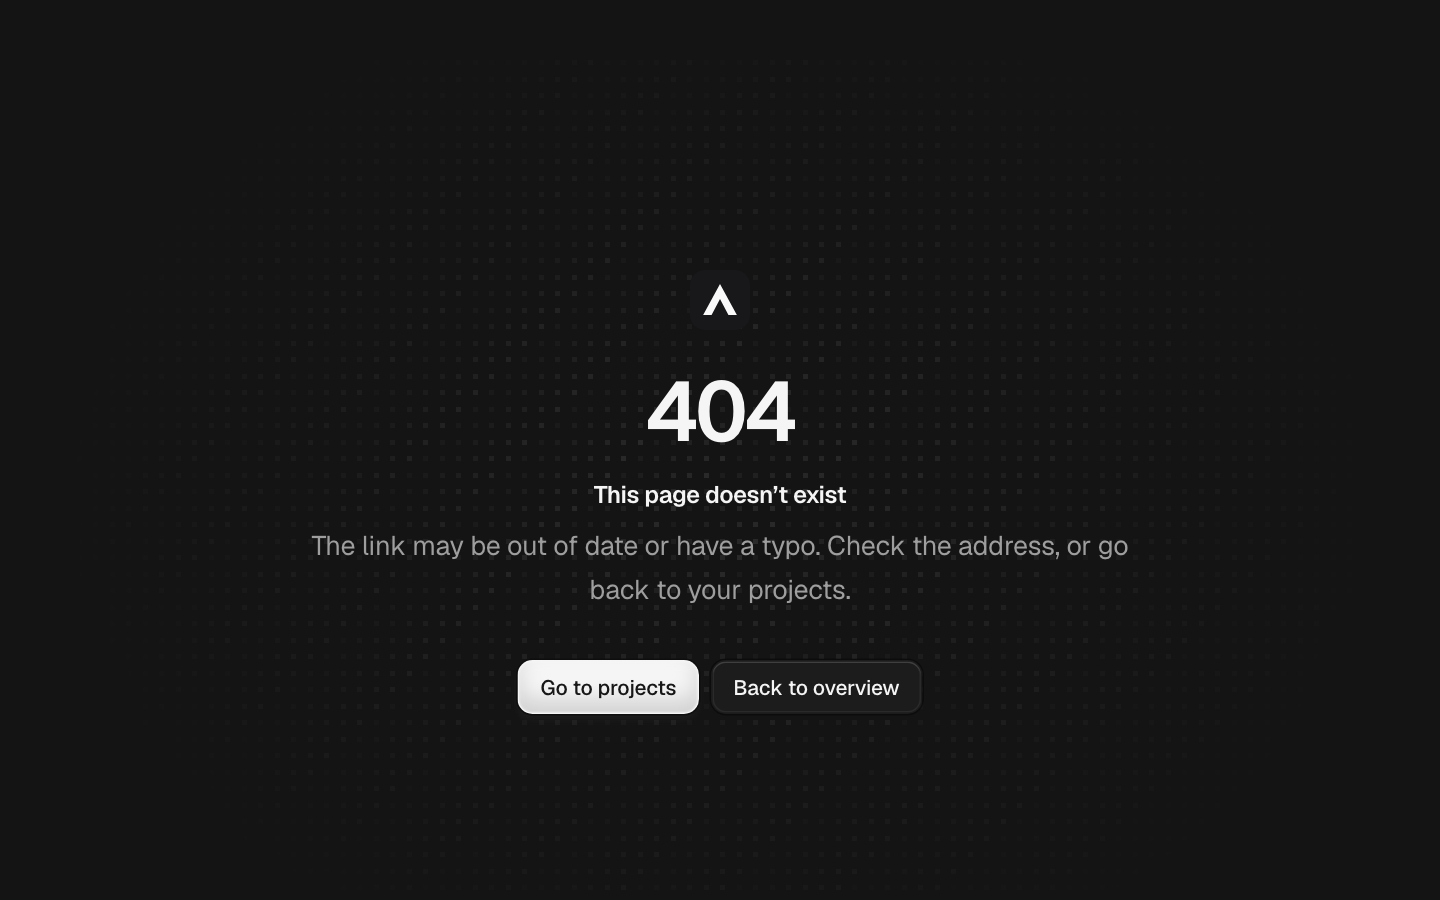
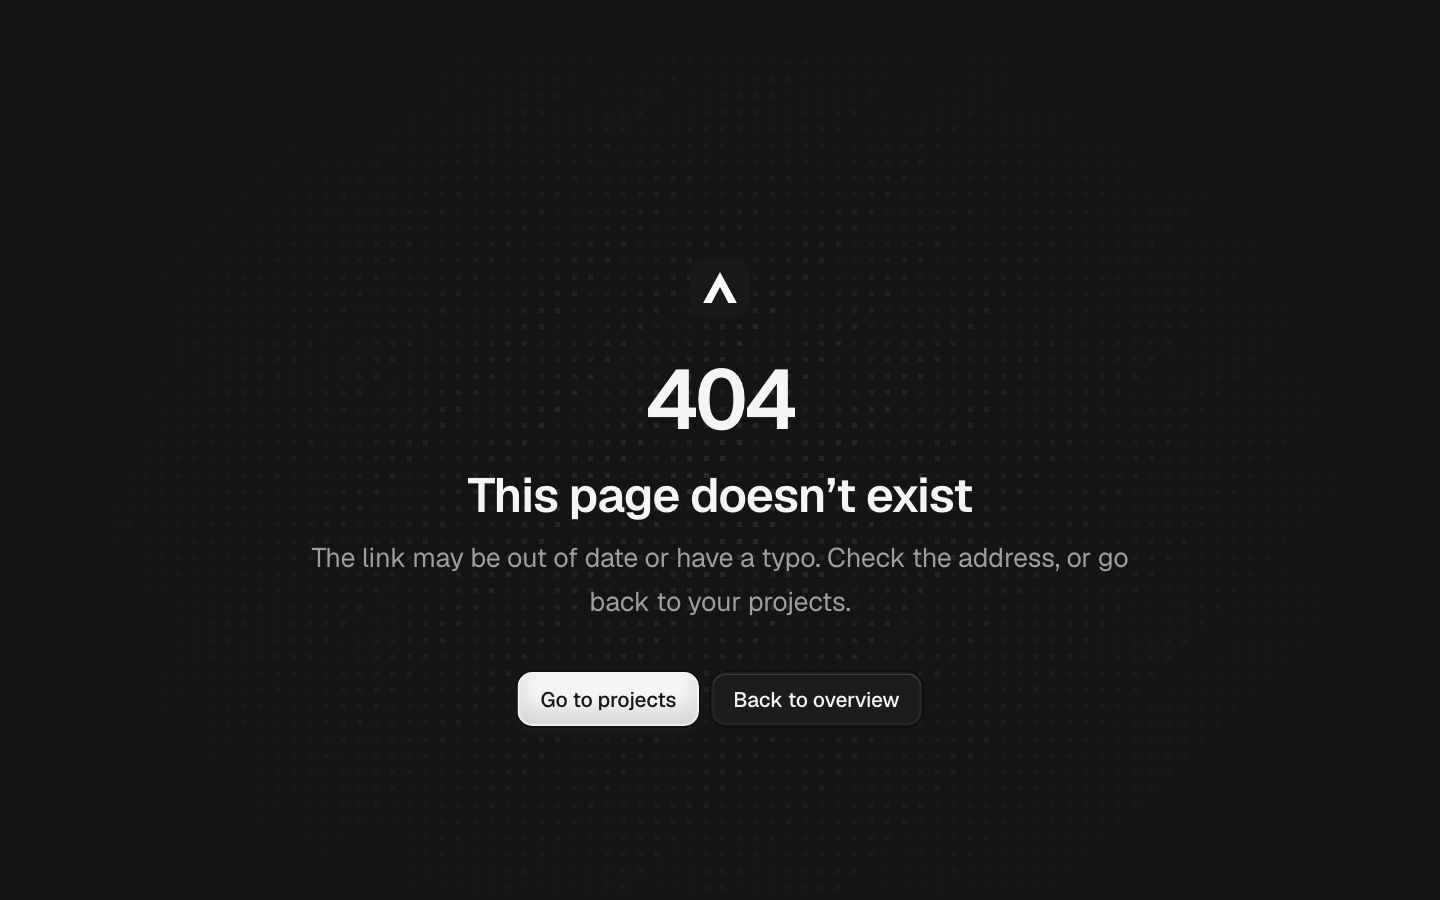
fix(error-page): raise the title, show the current step in one line and report a failed email

diff --git a/registry/kosmos/blocks/maintenance-page/maintenance-page.tsx b/registry/kosmos/blocks/maintenance-page/maintenance-page.tsx
@@ -4,19 +4,19 @@ import { CircleCheck } from 'lucide-react';
 import * as React from 'react';
 import { cn } from '@/registry/kosmos/lib/cn';
 import { Button } from '@/registry/kosmos/ui/button';
-import { Field, FieldLabel } from '@/registry/kosmos/ui/field';
+import { Field, FieldError, FieldLabel } from '@/registry/kosmos/ui/field';
 import { FlickeringGrid } from '@/registry/kosmos/ui/flickering-grid';
 import { Input } from '@/registry/kosmos/ui/input';
 import { StatusDot, type Status } from '@/registry/kosmos/ui/status';
 
-type MaintenanceStep = { id: string; label: string; status: Status; note?: string };
+type MaintenanceStep = { id: string; label: string; status: Status };
 
 // Sample data: replace it with your own upgrade, its steps and links.
 const sampleSteps: MaintenanceStep[] = [
-  { id: 'pipeline', label: 'Event pipeline', status: 'done', note: 'Moved' },
-  { id: 'queries', label: 'Query engine', status: 'running', note: 'In progress' },
-  { id: 'dashboards', label: 'Dashboards', status: 'waiting', note: 'Up next' },
-  { id: 'api', label: 'API and webhooks', status: 'pending', note: 'Queued' },
+  { id: 'pipeline', label: 'Moving the event pipeline', status: 'done' },
+  { id: 'queries', label: 'Moving the query engine', status: 'running' },
+  { id: 'dashboards', label: 'Bringing dashboards back', status: 'pending' },
+  { id: 'api', label: 'Bringing the API and webhooks back', status: 'pending' },
 ];
 const sampleSecondsLeft = 1 * 3600 + 42 * 60 + 18;
 const sampleActions = (
@@ -34,7 +34,7 @@ type MaintenancePageProps = Omit<React.ComponentProps<'section'>, 'title'> & {
   description?: React.ReactNode;
   /** When the app is back, for the countdown. Left out, the sample counts down from 1:42:18. `null` hides it. */
   backAt?: Date | string | number | null;
-  /** What the upgrade does, each with its state. An empty list leaves it out. */
+  /** What the upgrade does, each with its state. The page shows the first step not yet done. An empty list leaves it out. */
   steps?: MaintenanceStep[];
   /** Shows a field for an email to tell when the app is back, and gets the address. Left out, there is no field. */
   onNotify?: (email: string) => void | Promise<void>;
@@ -76,7 +76,7 @@ function Countdown({ secondsLeft }: { secondsLeft: number | null }) {
       {['Hours', 'Minutes', 'Seconds'].map((label, index) => (
         <React.Fragment key={label}>
           {index > 0 ? (
-            <span aria-hidden className="text-display font-semibold text-muted-foreground">
+            <span aria-hidden className="text-display font-semibold text-muted-foreground @2xl:text-hero">
               :
             </span>
           ) : null}
@@ -92,10 +92,27 @@ function Countdown({ secondsLeft }: { secondsLeft: number | null }) {
   );
 }
 
+function CurrentStep({ steps }: { steps: MaintenanceStep[] }) {
+  const index = steps.findIndex((step) => step.status !== 'done');
+  const step = steps[index];
+  return (
+    <p className="mt-6 flex max-w-full justify-center text-body text-muted-foreground">
+      {step ? (
+        <StatusDot status={step.status} title={step.label}>
+          Step {index + 1} of {steps.length} · {step.label}
+        </StatusDot>
+      ) : (
+        <StatusDot status="done">All {steps.length} steps done</StatusDot>
+      )}
+    </p>
+  );
+}
+
 function NotifyForm({ onNotify }: { onNotify: NonNullable<MaintenancePageProps['onNotify']> }) {
   const [email, setEmail] = React.useState('');
   const [sentTo, setSentTo] = React.useState<string | null>(null);
   const [pending, setPending] = React.useState(false);
+  const [failed, setFailed] = React.useState(false);
 
   if (sentTo) {
     return (
@@ -113,22 +130,39 @@ function NotifyForm({ onNotify }: { onNotify: NonNullable<MaintenancePageProps['
       onSubmit={async (event) => {
         event.preventDefault();
         setPending(true);
+        setFailed(false);
         try {
           await onNotify(email);
           setSentTo(email);
+        } catch {
+          setFailed(true);
         } finally {
           setPending(false);
         }
       }}
-      className="flex w-full flex-col gap-2 text-start @md:flex-row @md:items-end"
+      className="w-full text-start"
     >
-      <Field className="min-w-0 flex-1">
+      <Field invalid={failed}>
         <FieldLabel>Email me when it’s back</FieldLabel>
-        <Input type="email" required autoComplete="email" placeholder="you@acme.example" value={email} onValueChange={setEmail} className="h-7.5" />
+        <div className="flex flex-col gap-2 @md:flex-row">
+          <Input
+            type="email"
+            required
+            autoComplete="email"
+            placeholder="you@acme.example"
+            value={email}
+            onValueChange={(value) => {
+              setEmail(value);
+              setFailed(false);
+            }}
+            className="h-7.5 min-w-0 flex-1"
+          />
+          <Button type="submit" variant="primary" disabled={pending}>
+            Notify me
+          </Button>
+        </div>
+        <FieldError>We couldn’t save your email. Try again in a moment.</FieldError>
       </Field>
-      <Button type="submit" variant="primary" disabled={pending}>
-        Notify me
-      </Button>
     </form>
   );
 }
@@ -156,7 +190,7 @@ function MaintenancePage({
       {grid ? <FlickeringGrid spotlight className="mask-[radial-gradient(ellipse_50%_60%_at_50%_50%,black,transparent)]" /> : null}
       <div className="@container flex flex-1 flex-col items-center justify-center px-4 py-16 text-center">
         {media ? <div className="mb-6 flex shrink-0 [&_svg:not([class*='size-'])]:size-10">{media}</div> : null}
-        <h1 className="max-w-[24em] text-title text-balance wrap-break-word">{title}</h1>
+        <h1 className="max-w-[20em] text-heading font-semibold text-balance wrap-break-word @2xl:text-display">{title}</h1>
         {description ? (
           <p className="mt-2 max-w-[32em] text-body text-pretty wrap-break-word text-muted-foreground @2xl:text-lead">{description}</p>
         ) : null}
@@ -165,18 +199,7 @@ function MaintenancePage({
             <Countdown secondsLeft={secondsLeft} />
           </div>
         )}
-        {steps.length ? (
-          <ul className="mt-8 w-full max-w-md divide-y divide-border overflow-hidden rounded-2xl border border-transparent bg-card text-start shadow-card">
-            {steps.map((step) => (
-              <li key={step.id} className="flex items-center justify-between gap-3 px-4 py-2.5 text-body">
-                <StatusDot status={step.status} title={step.label}>
-                  {step.label}
-                </StatusDot>
-                {step.note ? <span className="shrink-0 text-caption text-muted-foreground">{step.note}</span> : null}
-              </li>
-            ))}
-          </ul>
-        ) : null}
+        {steps.length ? <CurrentStep steps={steps} /> : null}
         {onNotify || actions ? (
           <div className="mt-8 flex w-full max-w-md flex-col items-center gap-4">
             {onNotify ? <NotifyForm onNotify={onNotify} /> : null}

diff --git a/registry/kosmos/blocks/error-page/error-page.tsx b/registry/kosmos/blocks/error-page/error-page.tsx
@@ -55,7 +55,7 @@ function ErrorPage({
       <div className="@container flex flex-1 flex-col items-center justify-center px-4 py-16 text-center">
         {media ? <div className="mb-6 flex shrink-0 [&_svg:not([class*='size-'])]:size-10">{media}</div> : null}
         <p className="text-display font-semibold tabular-nums @2xl:text-hero">{code}</p>
-        <h1 className="mt-3 max-w-[24em] text-title text-balance wrap-break-word">{title}</h1>
+        <h1 className="mt-3 max-w-[20em] text-heading font-semibold text-balance wrap-break-word @2xl:text-display">{title}</h1>
         {description ? (
           <p className="mt-2 max-w-[32em] text-body text-pretty wrap-break-word text-muted-foreground @2xl:text-lead">{description}</p>
         ) : null}

diff --git a/registry/kosmos/examples/maintenance-page.tsx b/registry/kosmos/examples/maintenance-page.tsx
@@ -26,7 +26,7 @@ export default function MaintenancePagePreview() {
           <MaintenancePage
             title="Acme is moving every project of the Copperline Bank International Holdings and Partners workspace to the EU data region"
             steps={[
-              { id: 'long', label: 'Copying 1,200,000,000 events from the US data region to the EU data region', status: 'running', note: '48% done' },
+              { id: 'long', label: 'Copying 1,200,000,000 events from the US data region to the EU data region', status: 'running' },
               { id: 'bare', label: 'API', status: 'pending' },
             ]}
             onNotify={() => {}}
